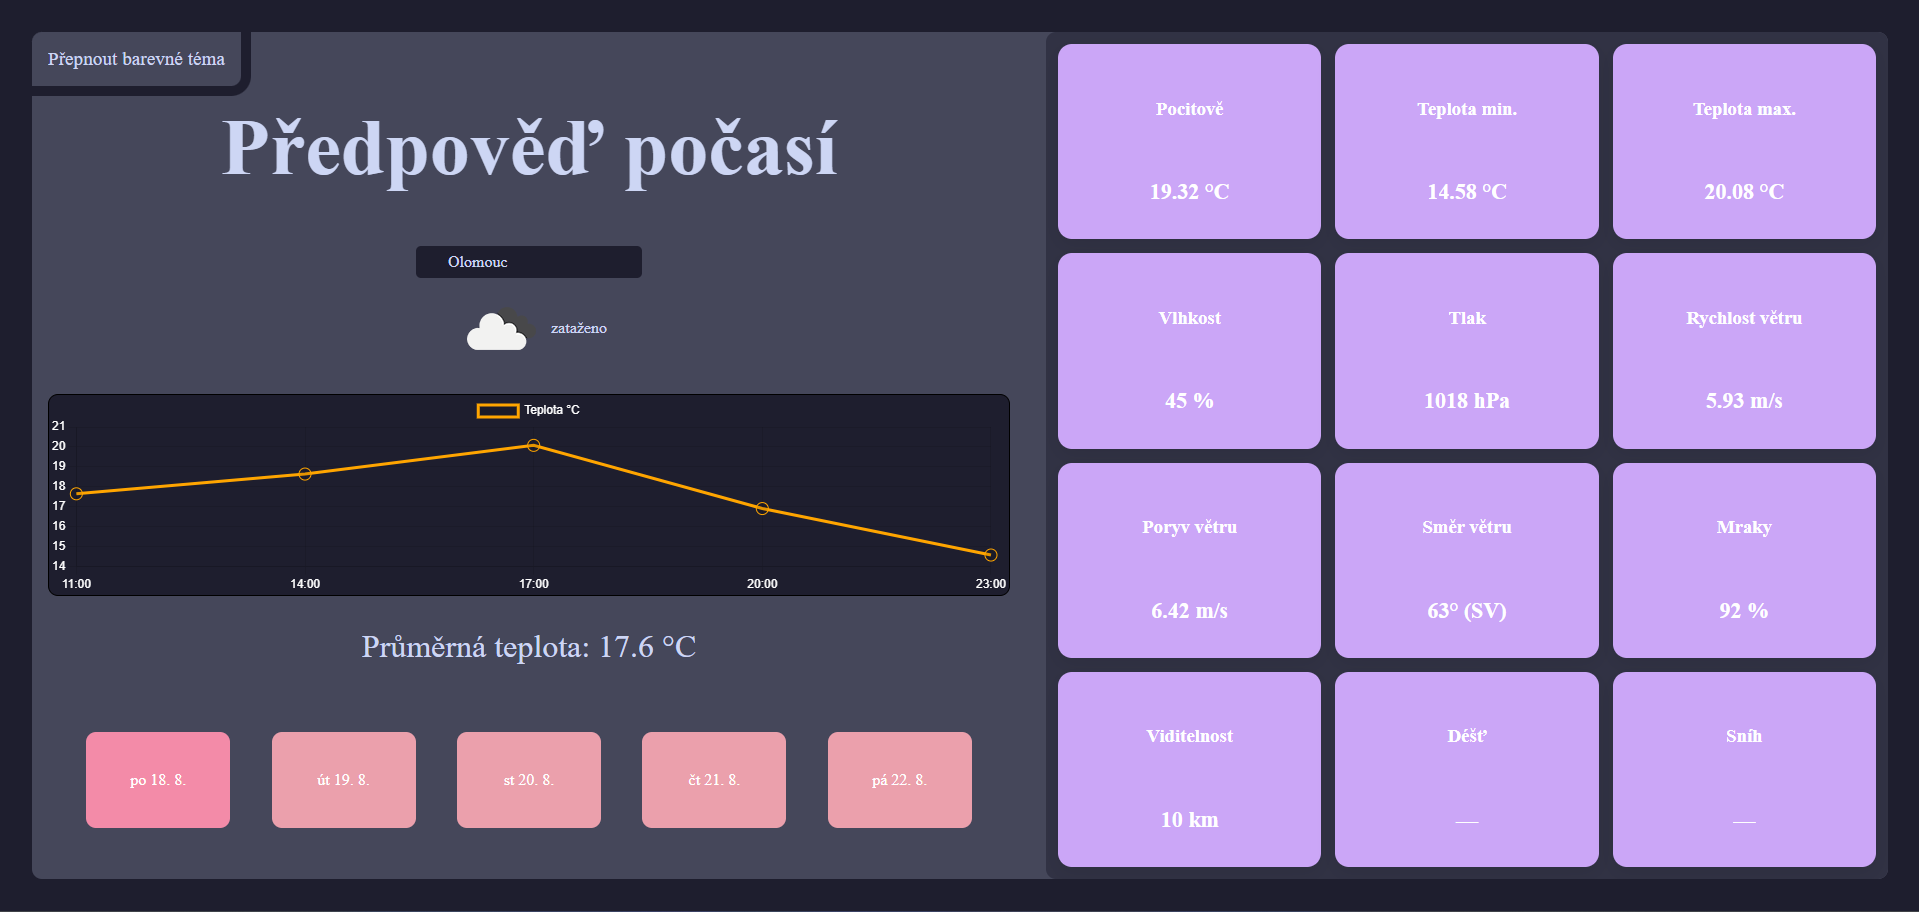
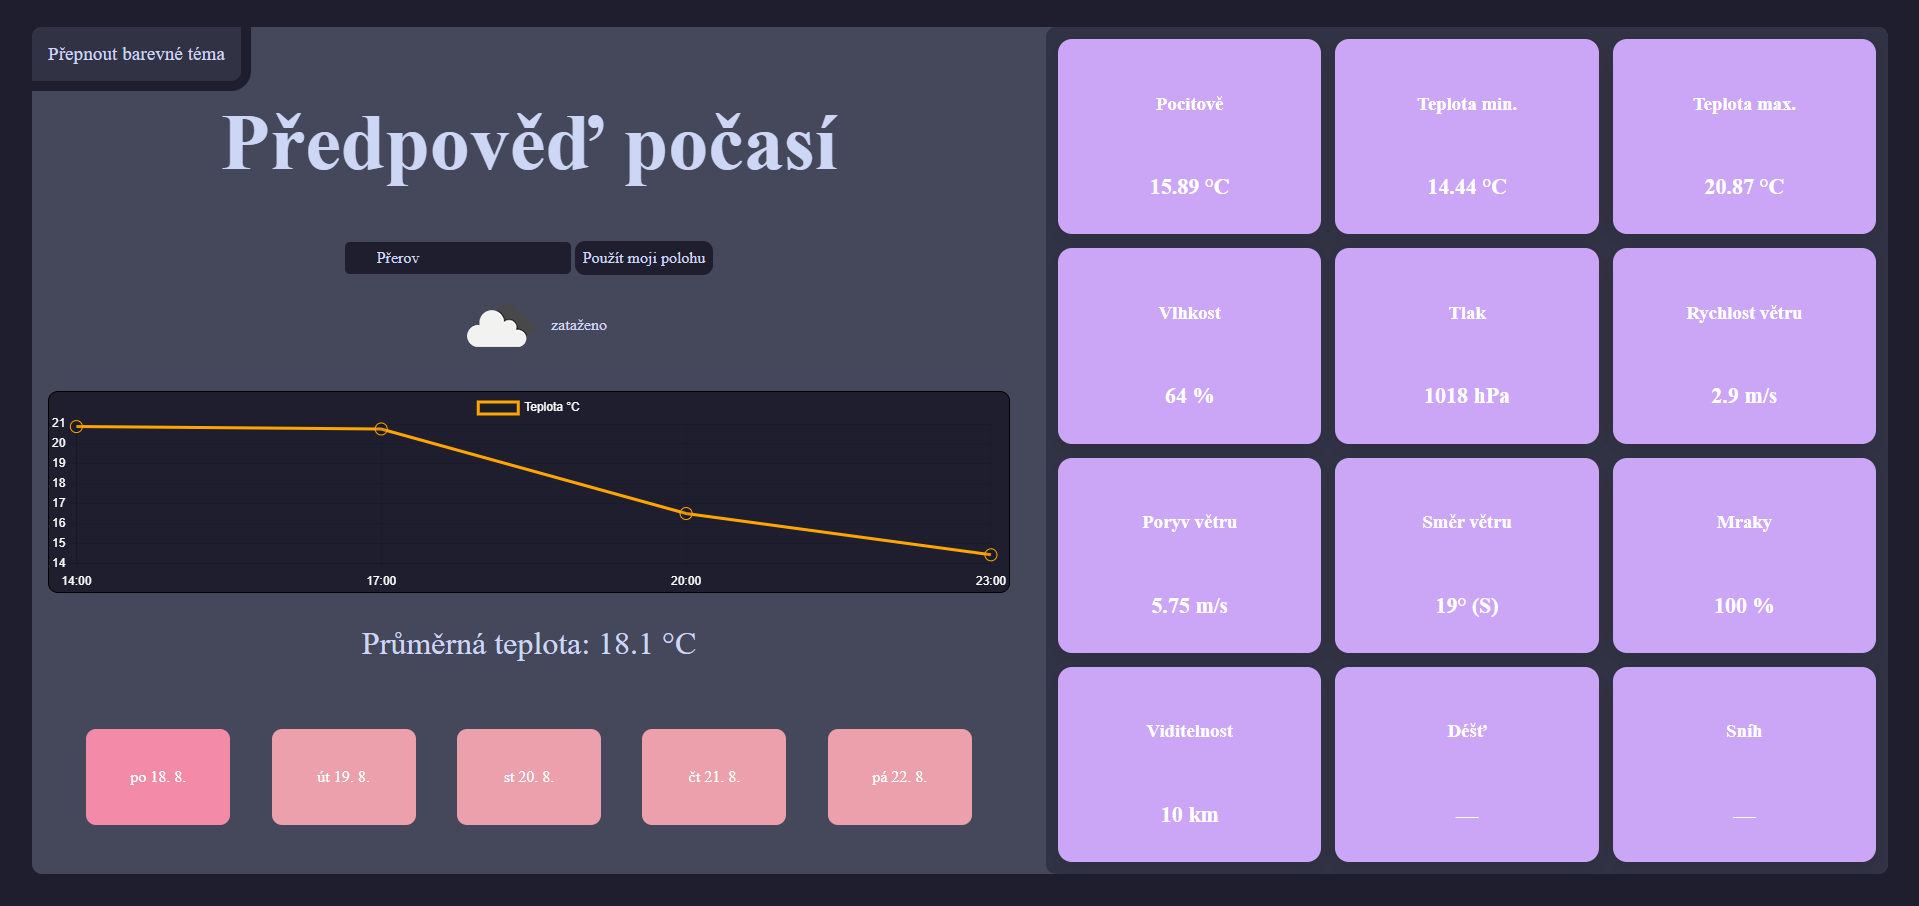
geolocation

diff --git a/JavaScript/app.js b/JavaScript/app.js
@@ -1,4 +1,4 @@
-const API_KEY = 'YOUR_API_KEY';  //OpenWeatherMap API key
+const API_KEY = '7836864239393d702c3c6e68a39360aa';  //OpenWeatherMap API key
 
 // Handles city name autocompletion logic
 class Autocomplete {
@@ -255,4 +255,24 @@ fetch('../city.list.json')
     .then(cities => {
         const app = new WeatherApp('temp-chart', 'today-date', 'today-desc', 'today-temp', 'days-list', 'details');
         new Autocomplete('city-input', 'suggestions', (lat, lon) => app.fetchForecast(lat, lon), cities);
+
+        //geolocation button
+        const geoBtn = document.getElementById('geo-btn');
+        geoBtn.addEventListener('click', () => {
+            if (navigator.geolocation) {
+                navigator.geolocation.getCurrentPosition(
+                    (position) => {
+                        const lat = position.coords.latitude;
+                        const lon = position.coords.longitude;
+                        app.fetchForecast(lat, lon);
+                    },
+                    (err) => {
+                        alert("Nepodařilo se získat vaši polohu");
+                        console.log(err);
+                    }
+                ) 
+            } else {
+                alert("Geolokace není ve vašem prohlížeči podporována");
+            }
+        })
     });

diff --git a/style.css b/style.css
@@ -55,6 +55,19 @@ body {
     box-sizing: border-box;
 }
 
+#geo-btn {
+    all: unset;
+    padding: 0.5rem;
+    border-radius: 10px;
+    color: var(--text-color);
+    background-color: var(--bg-color);
+}
+
+#geo-btn:hover {
+    cursor: pointer;
+    background-color: var(--details-bg-color);
+}
+
 #toggle-theme {
     all: unset;
     border-radius: 10px 0 10px 0;
@@ -246,5 +259,11 @@ body {
     #city-input {
         width: 80vw;
         padding: 0.5rem;
+    }
+}
+
+@media (max-width: 1110px) {
+    #geo-btn {
+        margin-top: 1rem;
     }
 }

diff --git a/index.html b/index.html
@@ -13,6 +13,7 @@
                 <h1 class="header">Předpověď počasí</h1>
                 <div class="input-wrapper">
                     <input id="city-input" placeholder="Vyhledejte své město" autocomplete="off">
+                    <button id="geo-btn">Použít moji polohu</button>
                     <ul id="suggestions"></ul>
                 </div>
 

diff --git a/README.md b/README.md
@@ -30,6 +30,12 @@ Users can search for a city using the autocomplete input and view the forecast w
    ```bash
    git clone https://github.com/Harangus/WeatherForecast.git
 
+2. You can run the project using the Live Server VSCode extension, but for geolocation to work properly, run in your console:
+    ```bash
+    npx http-server
+
+3. Open the web page at http://127.0.0.1:8080
+
 ## 🔑 API key
 This app uses the OpenWeatherMap API
 - Register for free at OpenWeatherMap
